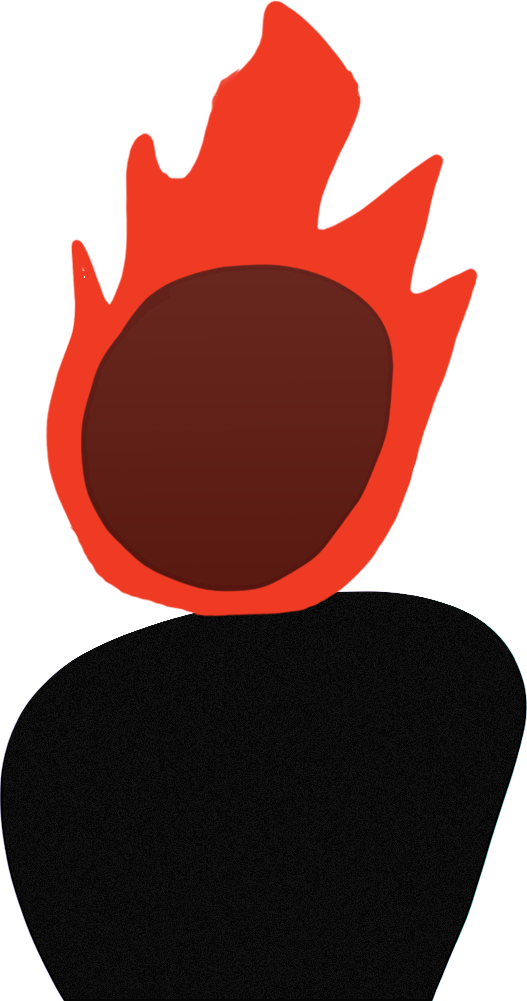
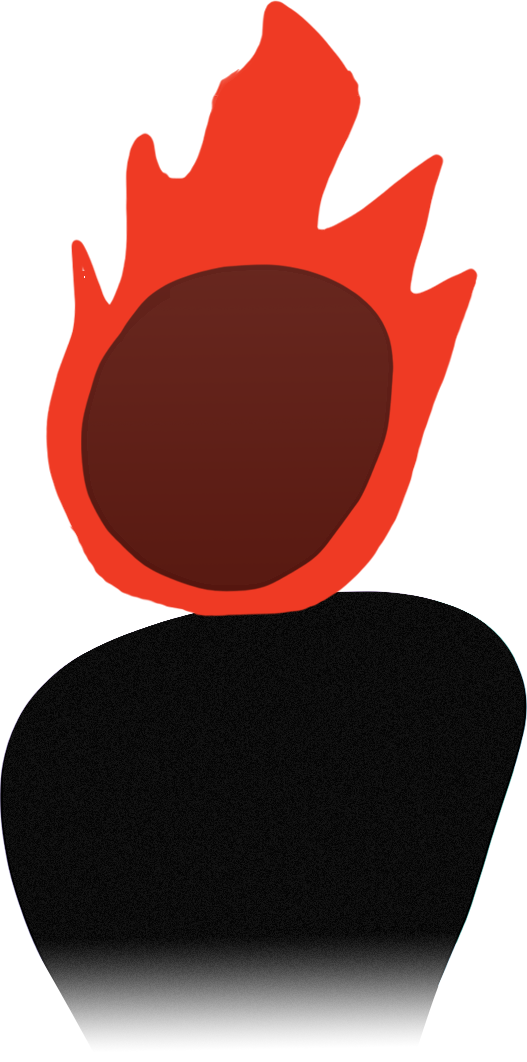
Minor fixes and better graphics

diff --git a/index.html b/index.html
@@ -128,7 +128,7 @@
 
                 class="home-avatar-grid"
 
-                src="./imgs/miscellaneous%20imgs/Reyas-avatar.webp"
+                src="./imgs/miscellaneous%20imgs/Reyas-avatar.png"
                 alt="Reyas' avatar"
             />
             <!-- ? Render low res img behind this as a preview while this one loads -->
@@ -138,9 +138,6 @@
         </article>
 
         <!-- <hr style="height: 80px; background-color: #1b1b1b; border-width: 0; margin: 0px;"> -->
-        <!-- ! AAAAAAAAAAAAAAAAAAAAAAAAAAAAAAAAAAAAAAAAAAAAAAAAAAAAAAAAAAAAAAAAAAAAAAAAAAAAAAAAAAAAAAAAAAAAAAAAAAAAAAAAAAAAAAAAAAAAAAAAAAAAAAAAAAAAAAAAAAAAAAA-->
-
-
 
         <!-- ! TODO: Make the foreground/transition scroll faster than the site in the background -->
         <!-- ! Like its "scanning the page above" -->
@@ -166,6 +163,9 @@
                     </div>
                 </div>
 
+                <div class="LemonsConnector">
+                </div>
+
                 <div id="LemonsCard" class="LemonsSite">
                     <a href="https://reyashey.github.io/Lemons-Landing-Page/" target="_blank">
                         <img
@@ -177,7 +177,7 @@
                             alt="Lemons Home Page"
                         />
                     </a>
-                    <div style="display: flex; flex-direction: row; align-items: center; align-content: center; width: 100%; justify-content: space-evenly;">
+                    <div style="display: flex; flex-direction: row; flex-wrap: wrap; align-items: center; align-content: center; width: 100%; justify-content: space-evenly;">
                         <a href="https://reyashey.github.io/Lemons-Landing-Page/" target="_blank" class="LemonsLink">Website Deployment ></a>
                         <br>
                         <a href="https://github.com/ReyasHey/Lemons-Landing-Page" target="_blank" class="LemonsLink">Github Project ></a>
@@ -185,13 +185,16 @@
                 </div>
             </article>
             <article id="ComingSoon" class="ComingSoon">
-                <header class="SoonH">
-                    <h3>Coming Soon</h3>
-                    <h3 class="h3-2" >New project coming this month, <br> <a id="lastProjectLink" class="h3-a" href="https://github.com/ReyasHey" target="_blank" >stay tuned ></a></h3>
-                </header>
-                <div class="SoonP" style="display: none;">
-                    <p>Desciption lorem ipsum <br> More Info ></p>
+                <div class="SoonText">
+                    <header class="SoonH">
+                        <h3>Coming Soon</h3>
+                        <h3 class="h3-2" >New project coming this month, <br> <a id="lastProjectLink" class="h3-a" href="https://github.com/ReyasHey" target="_blank" >stay tuned ></a></h3>
+                    </header>
                 </div>
+
+                <div class="SoonConnector">
+                </div>
+
                 <div class="SoonSite">
                     <a
                         href="https://github.com/ReyasHey"

diff --git a/css/grids.css b/css/grids.css
@@ -47,7 +47,7 @@
     background-size: 100% 100%; /* ! TODO: Make this ~95vh so to start the next page within this viewport as to chain content together */
 
     width: 100%;
-    height: 100vh;
+    height: 100%;
     /* Making the content closer together while keeping the bg full width*/
     padding: 0 10% 0 10%;
 
@@ -110,7 +110,7 @@
 
     display: grid;
     grid-template-columns: repeat(2, 1fr);
-    grid-template-rows: repeat(2, 1fr);
+    grid-template-rows: repeat(3, 1fr);
 
     max-width: 100%;
 }
@@ -121,25 +121,40 @@
     align-items: center;
     justify-content: center;
 
-    grid-column: 1;
-    grid-row: 1;
+    background-color: #f1c40f;
+    border-radius: 25px;
+
+    padding: 2vw;
+    width: 30vw;
+
+    height: fit-content;
+    align-self: center;
 }
 
 /* Lemons grid elements */
 .LemonsH {
     align-self: center;
-    width: 30vw;
 }
 
 .LemonsP {
     align-self: center;
     line-height: 1;
-    width: 30vw;
+}
+
+.LemonsConnector {
+    grid-column: 2;
+    grid-row: 1/2;
+
+    align-self: center;
+    background-color: #f1c40f;
+    height: 18vh;
 }
 
 .LemonsSite {
-    grid-column: 2;
+    grid-column: 3;
     grid-row: 1/2;
+
+    align-self: center;
 
     display: flex;
     flex-direction: column;
@@ -147,11 +162,10 @@
     align-items: center;
 
     height: fit-content;
-    width: calc(40vw + 2%);
 
     text-align: center;
 
-    background-color: #eee277;
+    background-color: #f1c40f;
     padding: 0.5vw;
     border-radius: 42px;
 }
@@ -176,22 +190,44 @@
 }
 
 /* ComingSoon grid elements */
-.SoonH {
-    grid-column: 2;
+.SoonText {                                   /* Flex: Lemons Text */
+    grid-column: 3;
     grid-row: 1;
+
+    display: flex;
+    flex-direction: column;
+    align-items: center;
+    justify-content: center;
+
+    background-color: #b4b4b4;
+    border-radius: 25px;
+
+    padding: 2vw;
+    width: 30vw;
+
+    height: fit-content;
     align-self: center;
-    margin-top: -1rem;
 }
 
-.SoonP {
+.SoonH {
+    align-self: center;
+}
+
+
+.SoonConnector {
     grid-column: 2;
     grid-row: 1;
+
     align-self: center;
+    background-color: #b4b4b4;
+    height: 10vh;
 }
 
 .SoonSite {
     grid-column: 1;
     grid-row: 1;
+
+    align-self: center;
 
     display: flex;
     flex-direction: column;
